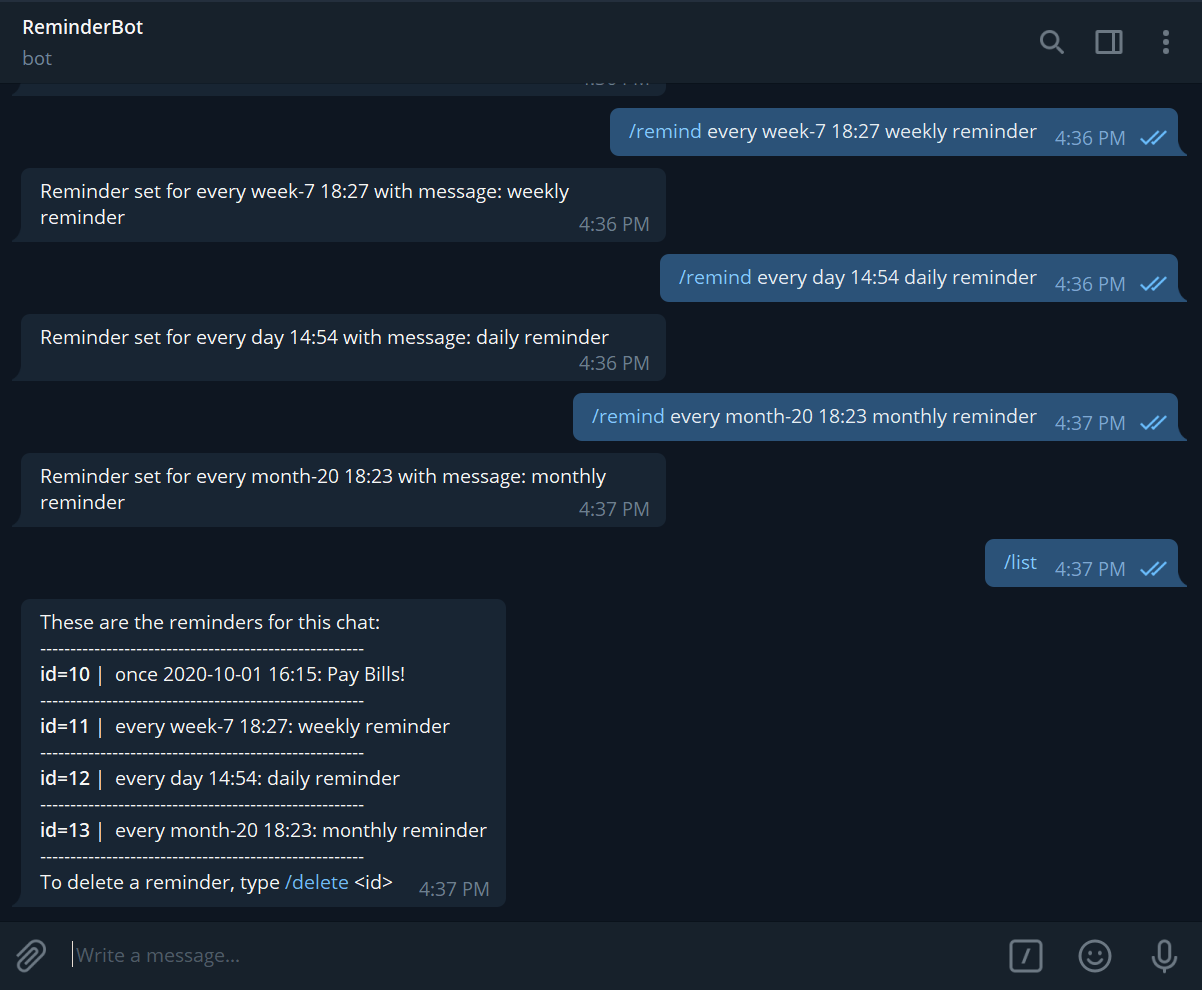
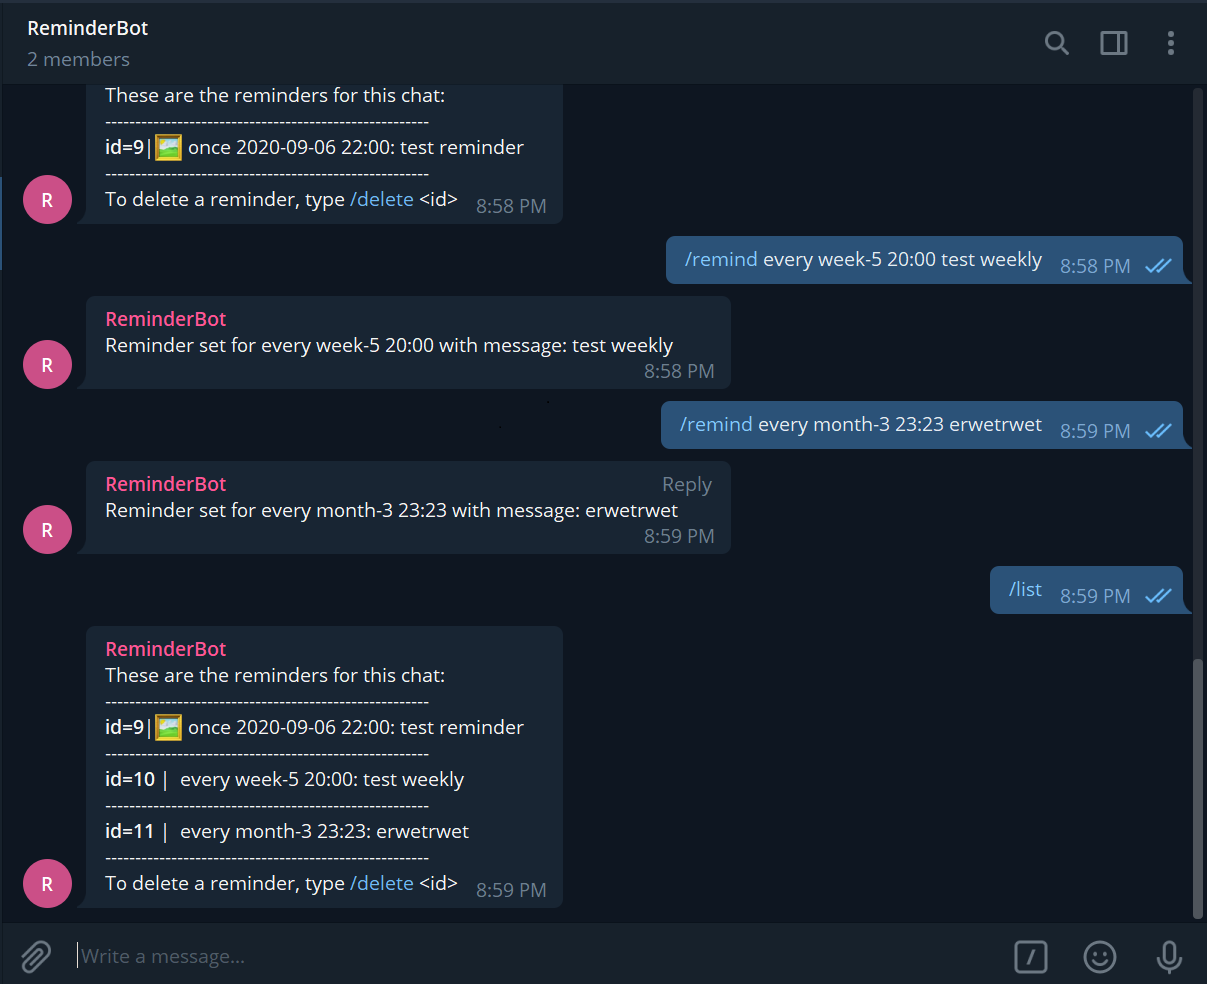
added image reminder capability

diff --git a/README.md b/README.md
@@ -60,6 +60,12 @@ Accepted frequencies are:
 Users can also type "/remind" to the bot for the reminder syntax:
 ![remind syntax](images/remind.PNG)
 
+### Reminder with images
+
+The bot can send reminders along with an image if you send the reminder message along with an attached image.
+
+![reminder with image](images/image_reminder.PNG)
+
 ### Reminder Text Formatting
 
 The reminder text is parsed in html format, so the following special characters that would have to be escapped to be valid:
@@ -77,6 +83,8 @@ See more information at https://core.telegram.org/bots/api#html-style
 The bot keeps a list of reminders for each unique chat that it has access to.
 Type "/remind" to list all reminders for the specific chat.
 Each reminder contains their specific reminder id, frequency, time, and the reminder message.
+
+Reminders with images attached will have a &#128444; icon beside the id number as well.
 
 ![list of reminders](images/list.PNG)
 
@@ -116,7 +124,4 @@ Steps to host on Google App Scripts:
 4. Replace the token, webapp url and ssId variable with your own ones
 5. Run the setWebHook() function to set the bot web hook to your webApp URL
 6. Deploy the code as a web app
-
-
-
 
